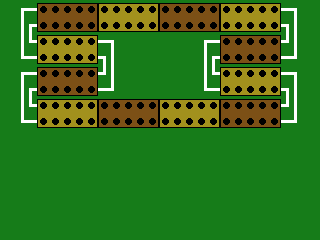
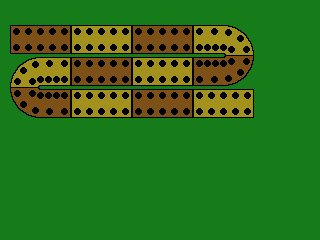
card back and deck

diff --git a/pybbage/pybgrx.py b/pybbage/pybgrx.py
@@ -50,18 +50,15 @@ SCREEN_TITLE = "Fifteen Two and The Rest Is Poo"
 SPRITE_SCALING = 1.0 * SCALE_FACTOR
 
 # for screen arrangement, in pixels.
-CARD_SHOW_LEFT_MARGIN = (22 * SCALE_FACTOR)
+CARD_SHOW_LEFT_MARGIN = (21 * SCALE_FACTOR)
 CARD_SHOW_INTERCARD_MARGIN = (3 * SCALE_FACTOR)
 CARD_WIDTH = (41 * SCALE_FACTOR)                # hm
 # need to figure out how to handle arcade's backwards y coordinates - yeah, I SAID IT
-CARD_SHOW_BOTTOM_MARGIN = (38 * SCALE_FACTOR)
+CARD_SHOW_BOTTOM_MARGIN = (29 * SCALE_FACTOR)
 
-# for putting the starter in the middle of the serpentine board
-# weird, should be 96 for bottom, not sure what's up bc the other stuff has
-# oh doy it's bc I measured it from the top in Gimp, and had measured bottom margin for show from the bottom.
-# and arcade does that backward YEAH I SAID IT reckoning of Y
-CARD_STARTER_BOTTOM = (144 * SCALE_FACTOR)
-CARD_STARTER_LEFT = (138 * SCALE_FACTOR)
+# for putting the starter to the right of the board
+CARD_STARTER_BOTTOM = (153 * SCALE_FACTOR)
+CARD_STARTER_LEFT = (265 * SCALE_FACTOR)
 
 # for old sprite demo
 MOVEMENT_SPEED = 5
@@ -141,7 +138,15 @@ class MyGame(arcade.Window):
         self.player_list = arcade.SpriteList()
 
         # Set up the player - let's try a king of hearts
-        self.player_sprite = Player("pybgrx_assets/KingHorts.png", SPRITE_SCALING)
+        # would this work for loading the whole set of them?
+        # https://arcade.academy/_modules/arcade/texture.html#load_spritesheet
+        # was self.player_sprite = Player("pybgrx_assets/CardBack.png", SPRITE_SCALING)
+        # arcade.load_spritesheet(file_name: str, sprite_width: int, sprite_height: int, columns: int, count: int)
+        # → List[source]
+        # it totally works!
+        card_textures = arcade.load_spritesheet("pybgrx_assets/CardDeck.png",sprite_width=41,sprite_height=64,
+                                                columns=13,count=52)
+        self.player_sprite = Player("pybgrx_assets/CardBack.png",scale=SPRITE_SCALING)
         # let us reckon from left and top
         self.player_sprite.left = 0
         self.player_sprite.top = self.player_sprite.height
@@ -155,15 +160,20 @@ class MyGame(arcade.Window):
         self.card_sprites = []
         # so let's do 4 cards and a starter, say, and see what we get trying to use pixels
         # just take a swing, say 22 pixels in
+        cards = [4,43,30,23,17]  # = 5 of horts, 5s, 5c, Jd, 5d
         for j in range(4):
-            # TODO get all the card images made into sprites - but for mockups, kinghorts
-            newcard = Card("pybgrx_assets/KingHorts.png", SPRITE_SCALING)
+            # this is a kludge, maybe load a card back sprite to set the image size, then use texture
+            newcard = Card("pybgrx_assets/CardBack.png",scale=SPRITE_SCALING)
+            newcard.append_texture(card_textures[cards[j]])  # swh
+            newcard.set_texture(1)
             newcard.left = CARD_SHOW_LEFT_MARGIN + (j * (CARD_WIDTH + CARD_SHOW_INTERCARD_MARGIN))
             newcard.bottom = CARD_SHOW_BOTTOM_MARGIN
             self.card_sprites.append(newcard)
             self.card_list.append(newcard)
         # then the starter card
-        newcard = Card("pybgrx_assets/KingHorts.png", SPRITE_SCALING)
+        newcard = Card("pybgrx_assets/CardBack.png",scale=SPRITE_SCALING)
+        newcard.append_texture(card_textures[cards[4]])  # swh
+        newcard.set_texture(1)
         newcard.left = CARD_STARTER_LEFT
         newcard.bottom = CARD_STARTER_BOTTOM
         self.card_sprites.append(newcard)
@@ -184,11 +194,15 @@ class MyGame(arcade.Window):
         arcade.draw_lrwh_rectangle_textured(0, 0,
                                             SCREEN_WIDTH, SCREEN_HEIGHT,
                                             self.background)
+        #dunt work - ,filter = gl.GL_NEAREST)
 
         # Draw all the sprites. Let's try a filter of gl.GL_NEAREST to avoid smoothing.
         # for which you need pyglet.gl imported as gl
         # card_list
         self.card_list.draw(filter = gl.GL_NEAREST)
+        # debug
+        #for card in self.card_list.sprite_list:
+        #    card.draw_hit_box(color = arcade.YELLOW)
 
         # player_list
         self.player_list.draw(filter = gl.GL_NEAREST)
